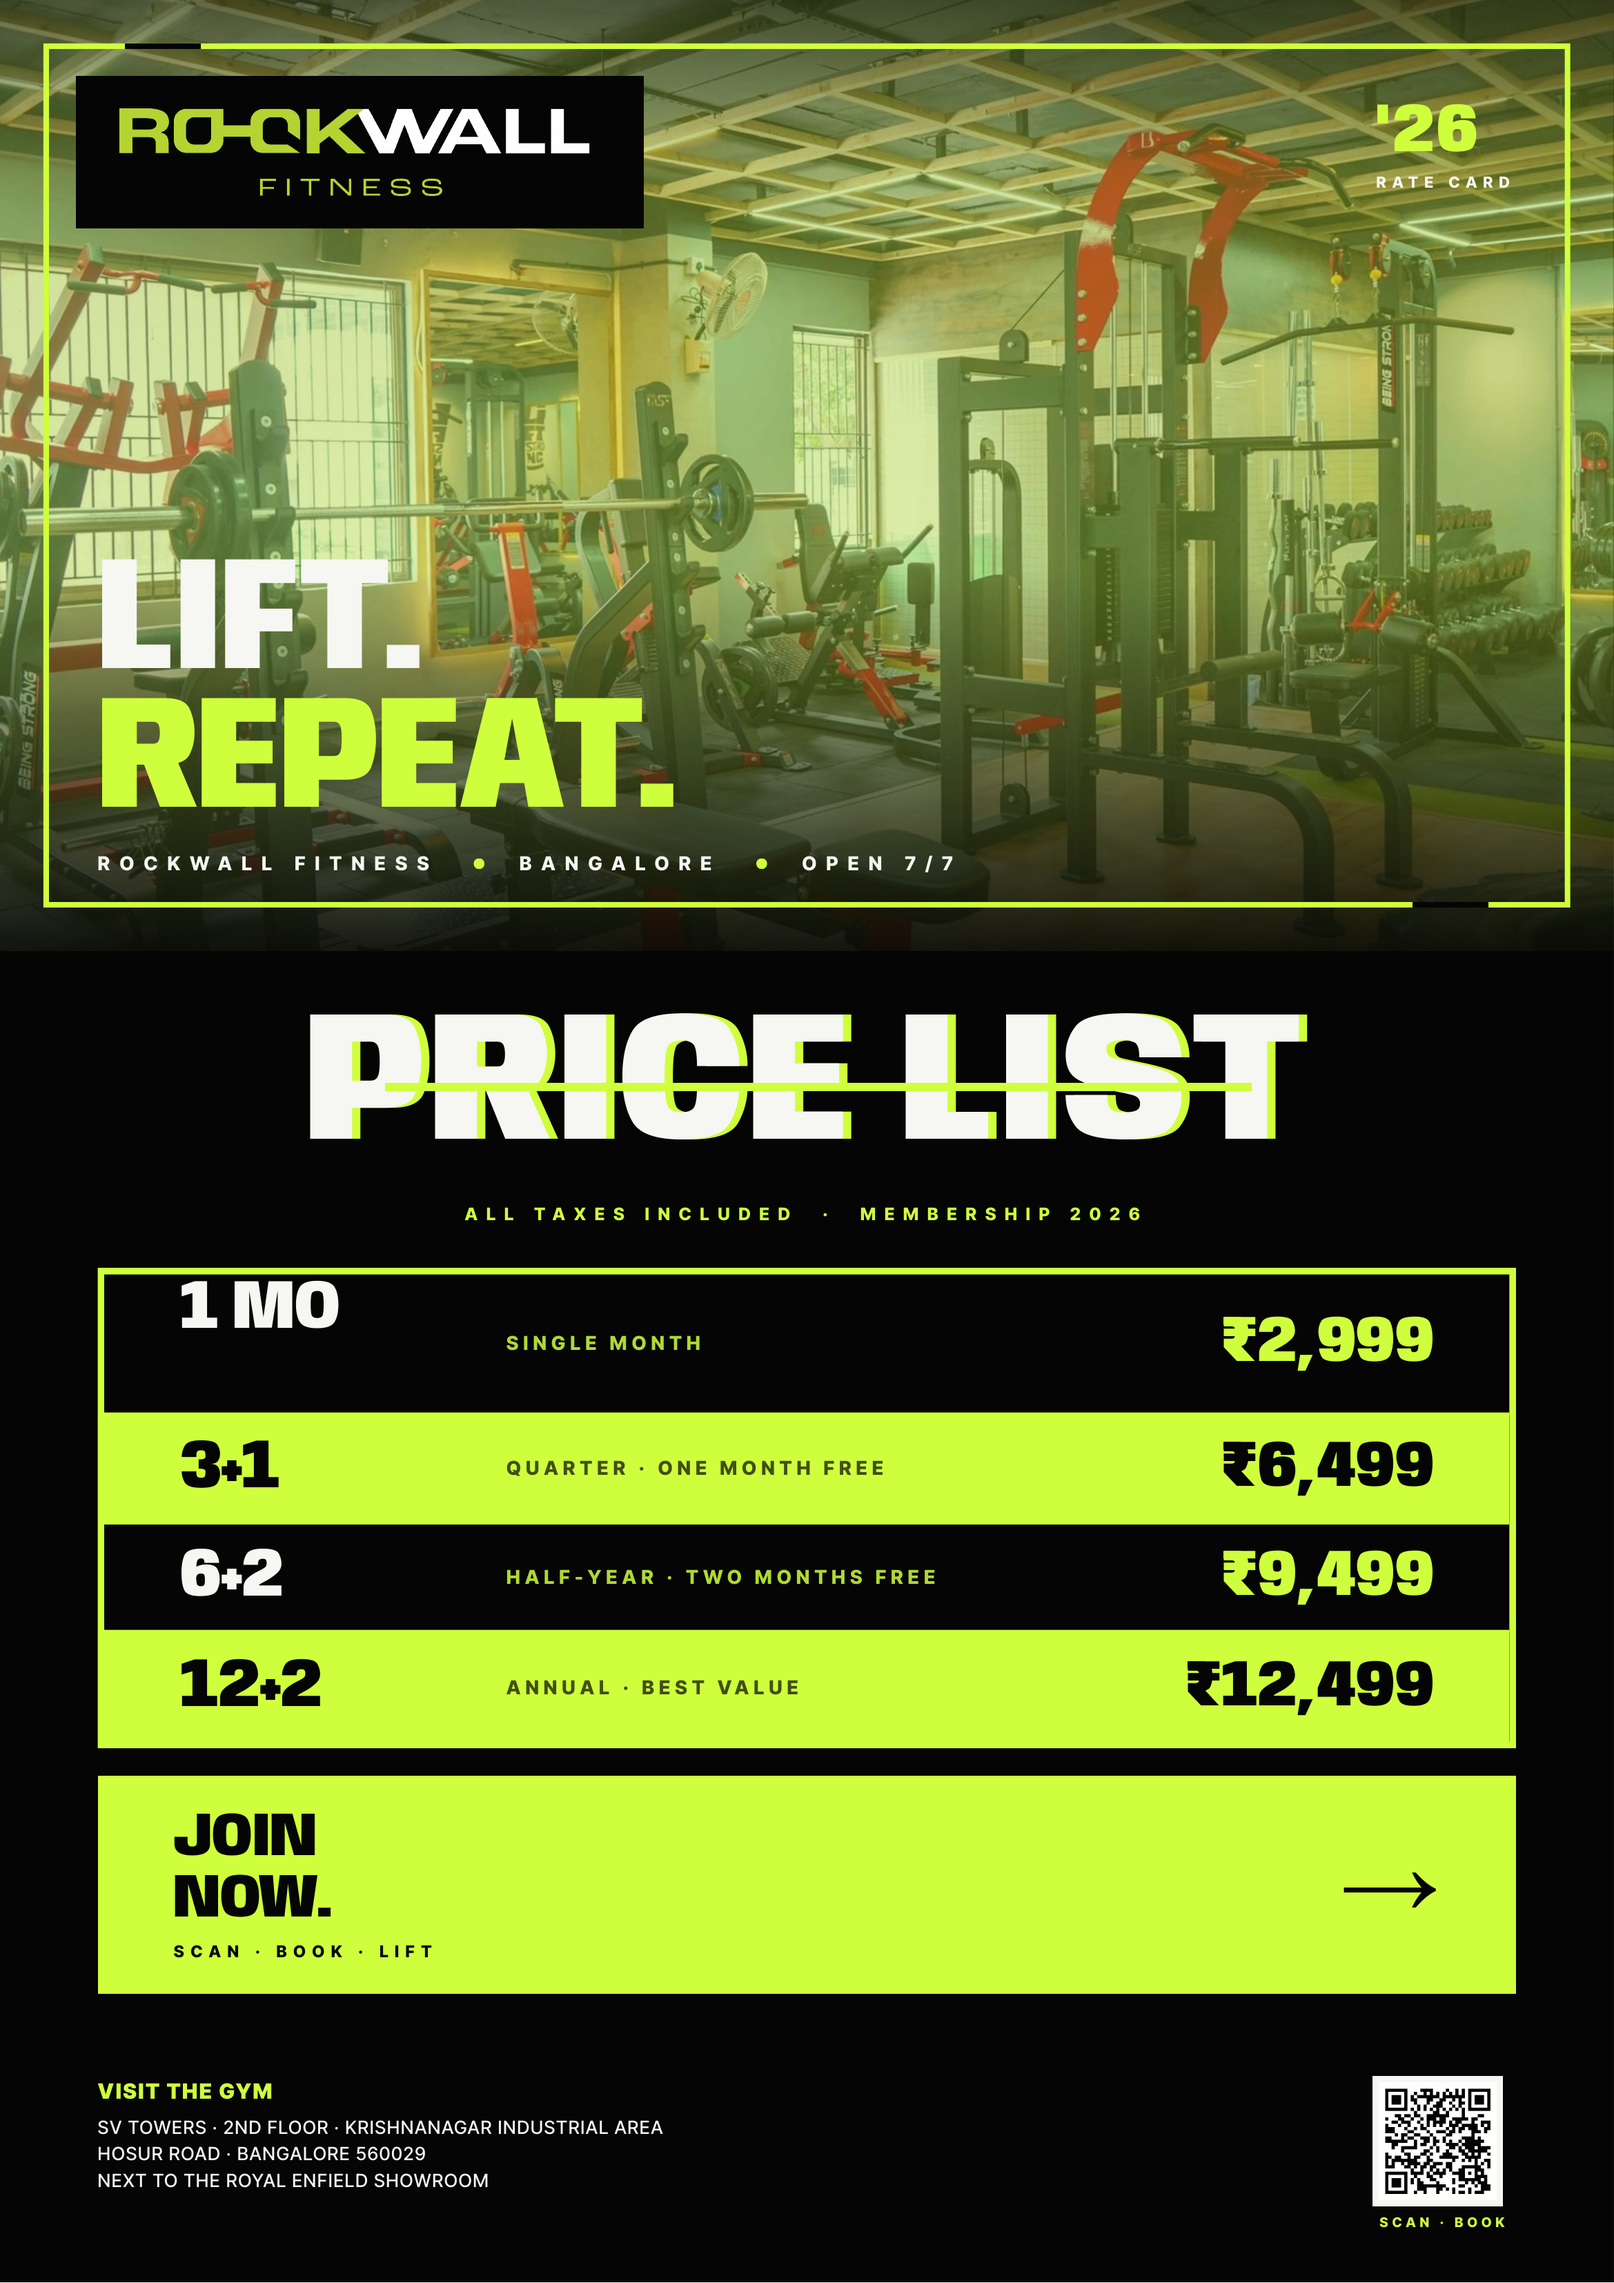
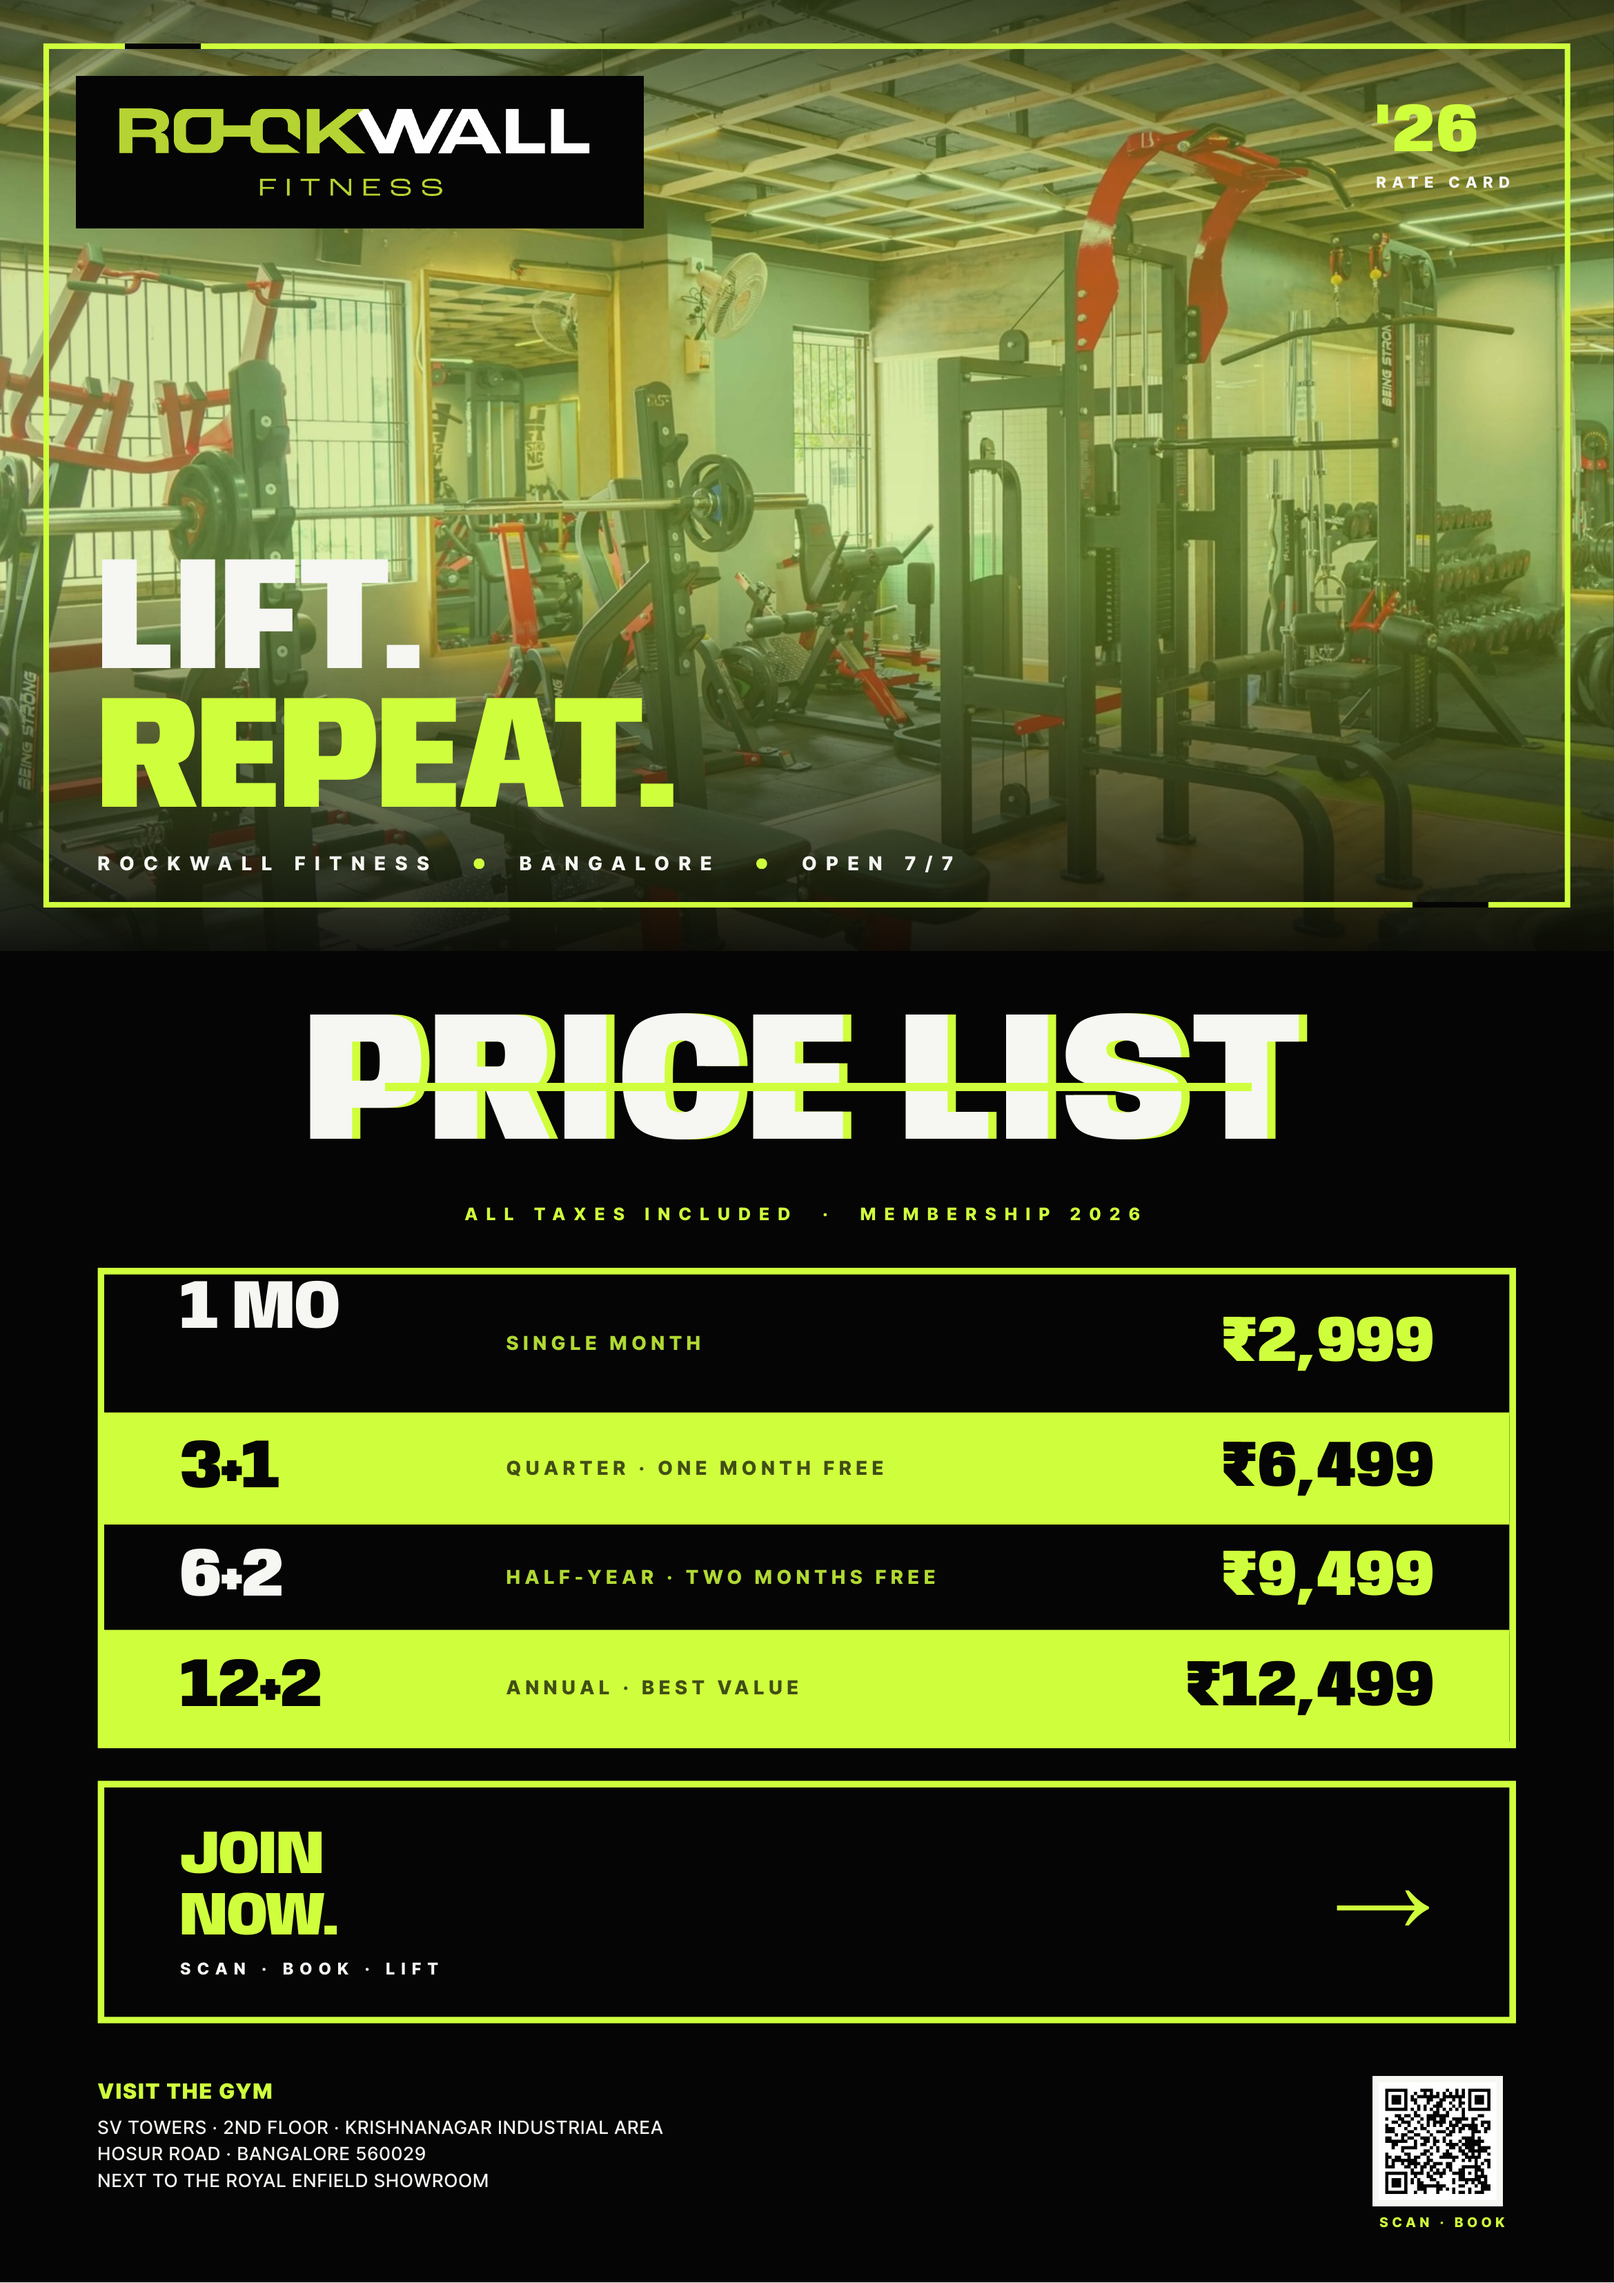
v3: invert JOIN NOW to black+lime, add T&C, update hours · v2b: hours
- JOIN NOW CTA was blending with the lime 12+2 row above. Inverted to black
  background + lime border + lime text for clear visual rhythm
- Hours updated from 05:00-23:00 to 06:00-22:30 across both posters (v3
  front tagline, v3 back stats strip + CTA sub, v2b masthead + visit panel)
- Added small T&C line on page 2 of v3 (terms apply, prices incl. tax,
  offers non-transferable, rates valid FY 2026)

Changed region(s): [[0.0624, 0.7784, 0.9363, 0.903]]

diff --git a/poster_v3.html b/poster_v3.html
@@ -254,13 +254,14 @@
 
   /* ============== JOIN NOW CTA BAR (flows under the table) ============== */
   .join-bar {
-    margin: 5mm 18mm 0;
-    background: #CFFF3C;
-    color: #050505;
-    padding: 6mm 14mm;
+    margin: 6mm 18mm 0;
+    background: #050505;
+    color: #CFFF3C;
+    padding: 7mm 14mm;
     display: flex;
     align-items: center;
     justify-content: space-between;
+    border: 1.2mm solid #CFFF3C;
   }
   .join-bar-text {
     font-family: 'Anybody', sans-serif;
@@ -270,6 +271,7 @@
     line-height: 1;
     letter-spacing: -0.01em;
     text-transform: uppercase;
+    color: #CFFF3C;
   }
   .join-bar-sub {
     font-family: 'Inter Tight', sans-serif;
@@ -278,6 +280,7 @@
     letter-spacing: 0.4em;
     margin-top: 2mm;
     text-transform: uppercase;
+    color: #F6F6F2;
   }
   .join-bar-arrow {
     font-family: 'Anybody', sans-serif;
@@ -285,7 +288,7 @@
     font-variation-settings: "wdth" 150;
     font-size: 52pt;
     line-height: 0.8;
-    color: #050505;
+    color: #CFFF3C;
   }
 
   /* ============== FOOTER BLOCK ============== */
@@ -615,6 +618,20 @@
     text-transform: uppercase;
     height: 15mm;
   }
+
+  /* Terms & conditions (small, sits above back-footer) */
+  .back-terms {
+    position: absolute;
+    top: 396mm; left: 18mm; right: 18mm;
+    font-family: 'Inter Tight', sans-serif;
+    font-weight: 500;
+    font-size: 6.5pt;
+    color: rgba(246,246,242,0.55);
+    letter-spacing: 0.18em;
+    text-transform: uppercase;
+    text-align: center;
+  }
+  .back-terms b { color: #CFFF3C; font-weight: 700; }
   .back-footer b { color: #CFFF3C; font-weight: 900; }
   .back-footer .addr {
     text-align: center;
@@ -765,7 +782,7 @@
   <div class="reasons">
     <div class="reasons-title">// WHY STUDENTS PICK ROCKWALL</div>
     <div class="reasons-grid">
-      <div class="reason"><b>05&mdash;23</b><span>HRS OPEN DAILY</span></div>
+      <div class="reason"><b>06&mdash;22</b><span>HRS · DAILY 6&mdash;10:30</span></div>
       <div class="reason"><b>7/7</b><span>NO REST DAYS</span></div>
       <div class="reason"><b>08</b><span>PROGRAMS RUN</span></div>
       <div class="reason"><b>A/C</b><span>FULL AIR-CON</span></div>
@@ -779,12 +796,17 @@
         SCAN. WALK IN.<br>
         <span class="lime">START LIFTING.</span>
       </div>
-      <div class="back-cta-sub">ASK FOR THE STUDENT WELCOME &mdash; ANY DAY, 05:00&mdash;23:00</div>
+      <div class="back-cta-sub">ASK FOR THE STUDENT WELCOME &mdash; ANY DAY, 06:00&mdash;22:30</div>
     </div>
     <div class="back-qr">
       <img src="assets/qr.png" alt="QR rockwallfitness.in">
       <div class="back-qr-cap">SCAN · BOOK</div>
     </div>
+  </div>
+
+  <!-- TERMS & CONDITIONS -->
+  <div class="back-terms">
+    <b>*</b> TERMS &amp; CONDITIONS APPLY &nbsp;&middot;&nbsp; PRICES INCLUSIVE OF TAX &nbsp;&middot;&nbsp; OFFERS NON-TRANSFERABLE &nbsp;&middot;&nbsp; RATES VALID FY 2026
   </div>
 
   <!-- BACK FOOTER -->

diff --git a/poster_v2b.html b/poster_v2b.html
@@ -734,7 +734,7 @@
       <img class="masthead-logo" src="assets/logo.png" alt="Rockwall Fitness">
       <div class="masthead-right">
         <b>EST. BANGALORE</b>
-        OPEN 05:00 &mdash; 23:00 // 7/7
+        OPEN 06:00 &mdash; 22:30 // 7/7
       </div>
     </div>
 
@@ -869,7 +869,7 @@
           HOSUR ROAD, BANGALORE <b>560029</b><br>
           <b>&raquo;</b> NEXT TO ROYAL ENFIELD SHOWROOM
           <div class="row">
-            <span>HOURS <span class="v">05:00&ndash;23:00</span></span>
+            <span>HOURS <span class="v">06:00&ndash;22:30</span></span>
             <span>OPEN <span class="v">7/7</span></span>
             <span>A/C <span class="v">ON</span></span>
           </div>
